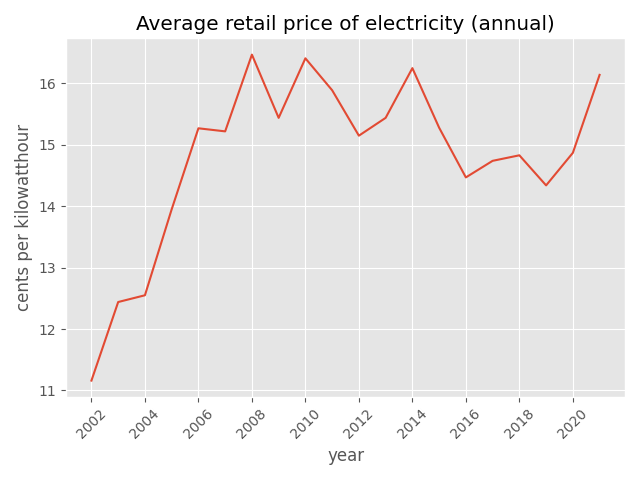
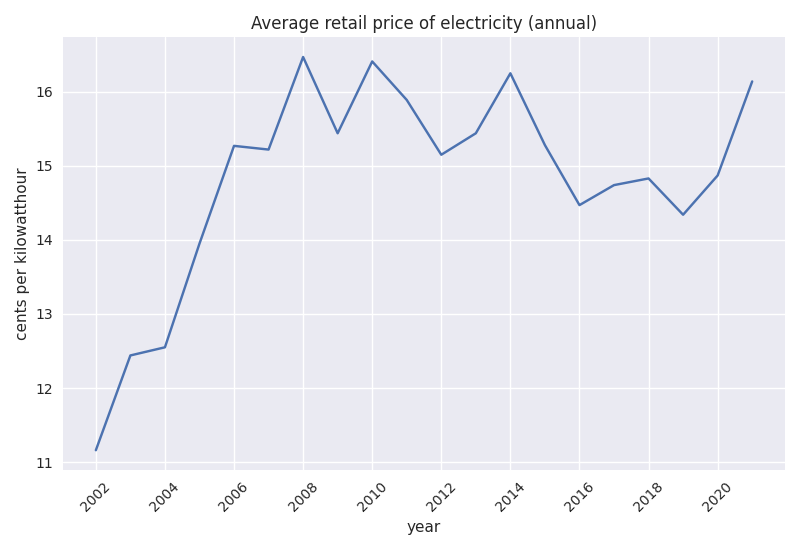
update plots

diff --git a/code/main.py b/code/main.py
@@ -33,6 +33,7 @@ def ts(timescale):
 def preprocess(data):
     x = []
     y = []
+    print(data)
     raw_data = data['series'][0]['data']
     name = data['series'][0]['name'].split(" : ")
     name = name[0] + " " + "(" + name[-1] + ")"
@@ -79,13 +80,17 @@ def total_consumption(timescale, num, btu=False):
 
 
 def net_consumption_per_fuel(fuel, timescale, num):
-    data = query('ELEC.CONS_EG.' + fuel + '-NY-99.', timescale, data)
+    data = query('ELEC.CONS_EG.' + fuel + '-NY-99.', timescale, num)
     return preprocess(data)
 
 
 def net_consumption(timescale, num):
-    data = query('ELEC.CONS_EG.ALL-NY-99.', timescale, data)
+    data = query('ELEC.CONS_EG.ALL-NY-99.', timescale, num)
     return preprocess(data)
+
+
+def net_consumption_by_sector():
+    pass
 
 
 def avg_retail_price(timescale, num):
@@ -122,6 +127,10 @@ fuel_types = [
     "TSN",
     "DPV",
     "SUN"]
+
+cons_fuel_types = [
+    ""
+]
 
 
 def plot(category, timescale, num, type=None):
@@ -161,36 +170,60 @@ def save():
 
 if __name__ == "__main__":
 
-    plt.style.use('ggplot')
+    plt.style.use('seaborn')
 
     # Data Extraction and Charts
 
     # Generation
-    plot("gen", 'monthly', 12*10)
-    plot('gen', 'annual', 20)
+    # plot("gen", 'monthly', 12*10)
+    # plot('gen', 'annual', 20)
 
-    # Generation per fuel type
-    for type in fuel_types:
-        plot("gen", 'monthly', 12*10, type)
-        plot('gen', 'annual', 20, type)
+    # # Generation per fuel type
+    # for type in fuel_types:
+    #     plot("gen", 'monthly', 12*10, type)
+    #     plot('gen', 'annual', 20, type)
 
-    # # Demand
-    plot('cons', 'monthly', 12*10)
-    plot('cons', 'annual', 20)
+    # # Consumption
+    # plot('cons', 'monthly', 12*10)
+    # plot('cons', 'annual', 20)
 
-    # Demand per fuel type
-    for type in fuel_types:
-        plot("dem", 'monthly', 20 * 12, type)
-        plot('dem', 'annual', 12, type)
+    # # Demand per fuel type
+    # for type in fuel_types:
+    #     plot("cons_t", 'monthly', 20 * 12, type)
+    #     plot('cons_t', 'annual', 12, type)
 
     # Retail Price
-    plot('price', 'monthly', 20 * 12)
-    plot('price', 'annual', 20)
+    # plot('price', 'monthly', 20 * 12)
+    # plot('price', 'annual', 20)
 
-    # Consumption for Electricity Generation
-    plot('cons', 'monthly', 20*12)
-    plot('cons', 'annual', 20)
+    # # Consumption for Electricity Generation
+    # plot('cons', 'monthly', 20*12)
+    # plot('cons', 'annual', 20)
 
-   # Consumption for Electricity Generation per type
-    plot('cons', 'monthly', 20*12)
-    plot('cons', 'annual', 20)
+#    # Consumption for Electricity Generation per type
+#     plot('cons', 'monthly', 20*12)
+#     plot('cons', 'annual', 20)
+
+    # Electricity Generation by Source
+
+    plt.style.use('seaborn')
+    fig, ax = plt.subplots()
+
+    labels = ["Petroleum-Fired", "Natural Gas-Fired", "Nuclear",
+              "Hydroelectric", "Nonhydroelectric\nRenewables"]
+    vals = [1122, 4475, 2477, 2377, 704]
+
+    import seaborn as sns
+
+    sns.set(style="whitegrid")
+    # sns.set_color_codes("Spectral")
+
+    plt.figure(2, figsize=(15, 7))
+
+    sns.barplot(x=vals, y=labels, palette='Spectral')
+
+    plt.xlabel("thousand MWh")
+    plt.ylabel("Source")
+
+    plt.suptitle('NY State Net Electricity Generation by Source', fontsize=20)
+    plt.savefig('fig/elec_gen_by_source.png')
